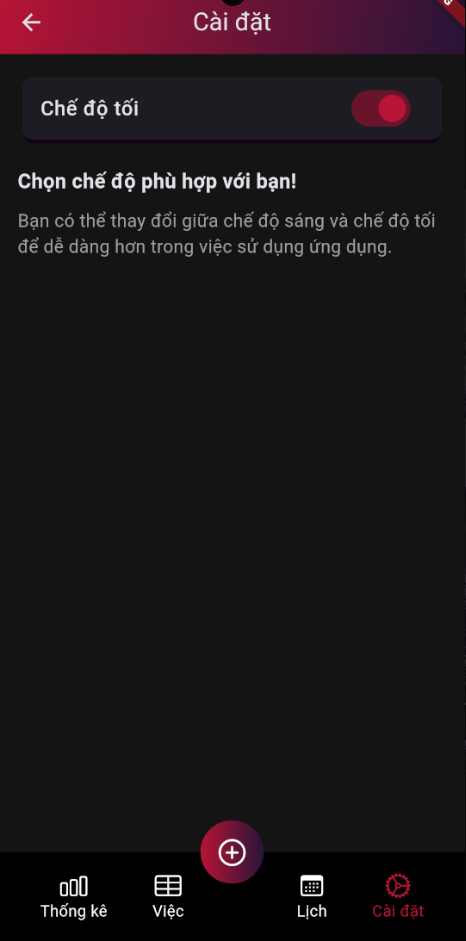
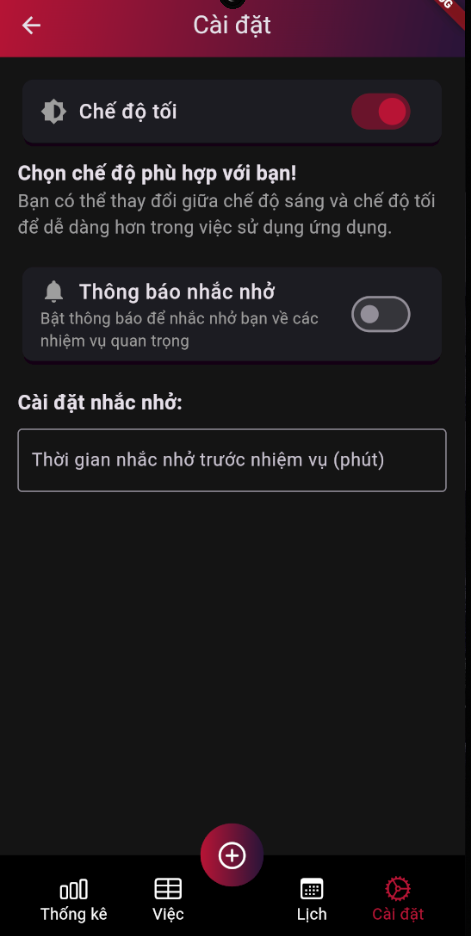
update

diff --git a/lib/screens/setting_screen.dart b/lib/screens/setting_screen.dart
@@ -10,6 +10,8 @@ class SettingScreen extends StatefulWidget {
 }
 
 class _SettingScreenState extends State<SettingScreen> {
+  bool isReminderEnabled = false; // Trạng thái cho thông báo nhắc nhở
+
   @override
   Widget build(BuildContext context) {
     final themeProvider = Provider.of<ThemeProvider>(context);
@@ -34,7 +36,6 @@ class _SettingScreenState extends State<SettingScreen> {
       body: Padding(
         padding: const EdgeInsets.all(16.0),
         child: Column(
-          mainAxisAlignment: MainAxisAlignment.start,
           crossAxisAlignment: CrossAxisAlignment.start,
           children: [
             Card(
@@ -43,9 +44,15 @@ class _SettingScreenState extends State<SettingScreen> {
                 borderRadius: BorderRadius.circular(10),
               ),
               child: SwitchListTile(
-                title: const Text(
-                  'Chế độ tối',
-                  style: TextStyle(fontSize: 18, fontWeight: FontWeight.w500),
+                title: const Row(
+                  children: [
+                    Icon(Icons.brightness_6, color: Colors.grey), // Icon Dark/Light Mode
+                    SizedBox(width: 10),
+                    Text(
+                      'Chế độ tối',
+                      style: TextStyle(fontSize: 18, fontWeight: FontWeight.w500),
+                    ),
+                  ],
                 ),
                 value: themeProvider.isDarkMode,
                 onChanged: (value) {
@@ -54,15 +61,58 @@ class _SettingScreenState extends State<SettingScreen> {
                 activeColor: const Color(0xffB81736),
               ),
             ),
-            const SizedBox(height: 20),
+            const SizedBox(height: 10),
             const Text(
               'Chọn chế độ phù hợp với bạn!',
               style: TextStyle(fontSize: 18, fontWeight: FontWeight.bold),
             ),
-            const SizedBox(height: 10),
             const Text(
               'Bạn có thể thay đổi giữa chế độ sáng và chế độ tối để dễ dàng hơn trong việc sử dụng ứng dụng.',
               style: TextStyle(fontSize: 16, color: Colors.grey),
+            ),
+            const SizedBox(height: 20),
+            Card(
+              elevation: 5,
+              shape: RoundedRectangleBorder(
+                borderRadius: BorderRadius.circular(10),
+              ),
+              child: SwitchListTile(
+                title: const Row(
+                  children: [
+                    Icon(Icons.notifications, color: Colors.grey), 
+                    SizedBox(width: 10),
+                    Text(
+                      'Thông báo nhắc nhở',
+                      style: TextStyle(fontSize: 18, fontWeight: FontWeight.w500),
+                    ),
+                  ],
+                ),
+                subtitle: const Text(
+                  'Bật thông báo để nhắc nhở bạn về các nhiệm vụ quan trọng',
+                  style: TextStyle(fontSize: 14, color: Colors.grey),
+                ),
+                value: isReminderEnabled,
+                onChanged: (value) {
+                  setState(() {
+                    isReminderEnabled = value;
+                  });
+                },
+                activeColor: const Color(0xffB81736),
+              ),
+            ),
+            const SizedBox(height: 20),
+            const Text(
+              'Cài đặt nhắc nhở:',
+              style: TextStyle(fontSize: 18, fontWeight: FontWeight.bold),
+            ),
+            const SizedBox(height: 10),
+            TextFormField(
+              decoration: const InputDecoration(
+                labelText: 'Thời gian nhắc nhở trước nhiệm vụ (phút)',
+                border: OutlineInputBorder(),
+              ),
+              keyboardType: TextInputType.number,
+              onChanged: (value) {},
             ),
           ],
         ),

diff --git a/lib/screens/calender_screen.dart b/lib/screens/calender_screen.dart
@@ -38,8 +38,8 @@ class _CalenderScreenState extends State<CalenderScreen> {
           decoration: BoxDecoration(
             gradient: LinearGradient(
               colors: [
-                isDarkMode ? Colors.black : Color(0xffB81736),
-                isDarkMode ? Colors.grey[800]! : Color(0xff281537),
+                isDarkMode ? Colors.black : const Color(0xffB81736),
+                isDarkMode ? Colors.grey[800]! : const Color(0xff281537),
               ],
               begin: Alignment.topLeft,
               end: Alignment.bottomRight,
@@ -78,12 +78,12 @@ class _CalenderScreenState extends State<CalenderScreen> {
                 return _events[day] ?? [];
               },
               calendarStyle: CalendarStyle(
-                todayDecoration: BoxDecoration(
-                  color: const Color(0xffB81736),
+                todayDecoration: const BoxDecoration(
+                  color: Color(0xffB81736),
                   shape: BoxShape.circle,
                 ),
-                selectedDecoration: BoxDecoration(
-                  color: const Color(0xff281537),
+                selectedDecoration: const BoxDecoration(
+                  color: Color(0xff281537),
                   shape: BoxShape.circle,
                 ),
                 markerDecoration: BoxDecoration(
@@ -138,8 +138,8 @@ class _CalenderScreenState extends State<CalenderScreen> {
                 child: ListTile(
                   leading: Container(
                     padding: const EdgeInsets.all(8.0),
-                    decoration: BoxDecoration(
-                      color: const Color(0xffB81736),
+                    decoration: const BoxDecoration(
+                      color: Color(0xffB81736),
                       shape: BoxShape.circle,
                     ),
                     child: const Icon(

diff --git a/lib/screens/theme_provider2.dart b/lib/screens/theme_provider2.dart
@@ -3,16 +3,15 @@ import 'package:flutter/material.dart';
 class theme_provider2 with ChangeNotifier {
   ThemeData _themeData;
 
-  theme_provider2() : _themeData = ThemeData.light(); // Mặc định là light mode
+  theme_provider2() : _themeData = ThemeData.light();
 
   ThemeData get themeData => _themeData;
 
-  // Phương thức thay đổi font chữ
   void updateFontFamily(String fontFamily) {
     _themeData = _themeData.copyWith(
       textTheme: _themeData.textTheme.apply(fontFamily: fontFamily),
     );
-    notifyListeners(); // Cập nhật UI
+    notifyListeners(); 
   }
 
   bool _isDarkMode = false;

diff --git a/lib/screens/welcome_screen.dart b/lib/screens/welcome_screen.dart
@@ -20,7 +20,7 @@ class WelcomeScreen extends StatelessWidget {
         ),
         child: Column(children: [
           Padding(
-            padding: EdgeInsets.only(top: 200.0),
+            padding: const EdgeInsets.only(top: 200.0),
             child: ClipOval(
               child: Image.asset(
                 'assets/logo.jpg',

diff --git a/lib/app_container.dart b/lib/app_container.dart
@@ -19,7 +19,6 @@ class _AppContainerState extends State<AppContainer> {
   int _selectedIndex = 0;
   List<Map<String, dynamic>> tasks = [];
 
-  // Sample statistics data
   int completedTasks = 5;
   int newTasks = 10;
   int inProgressTasks = 3;
